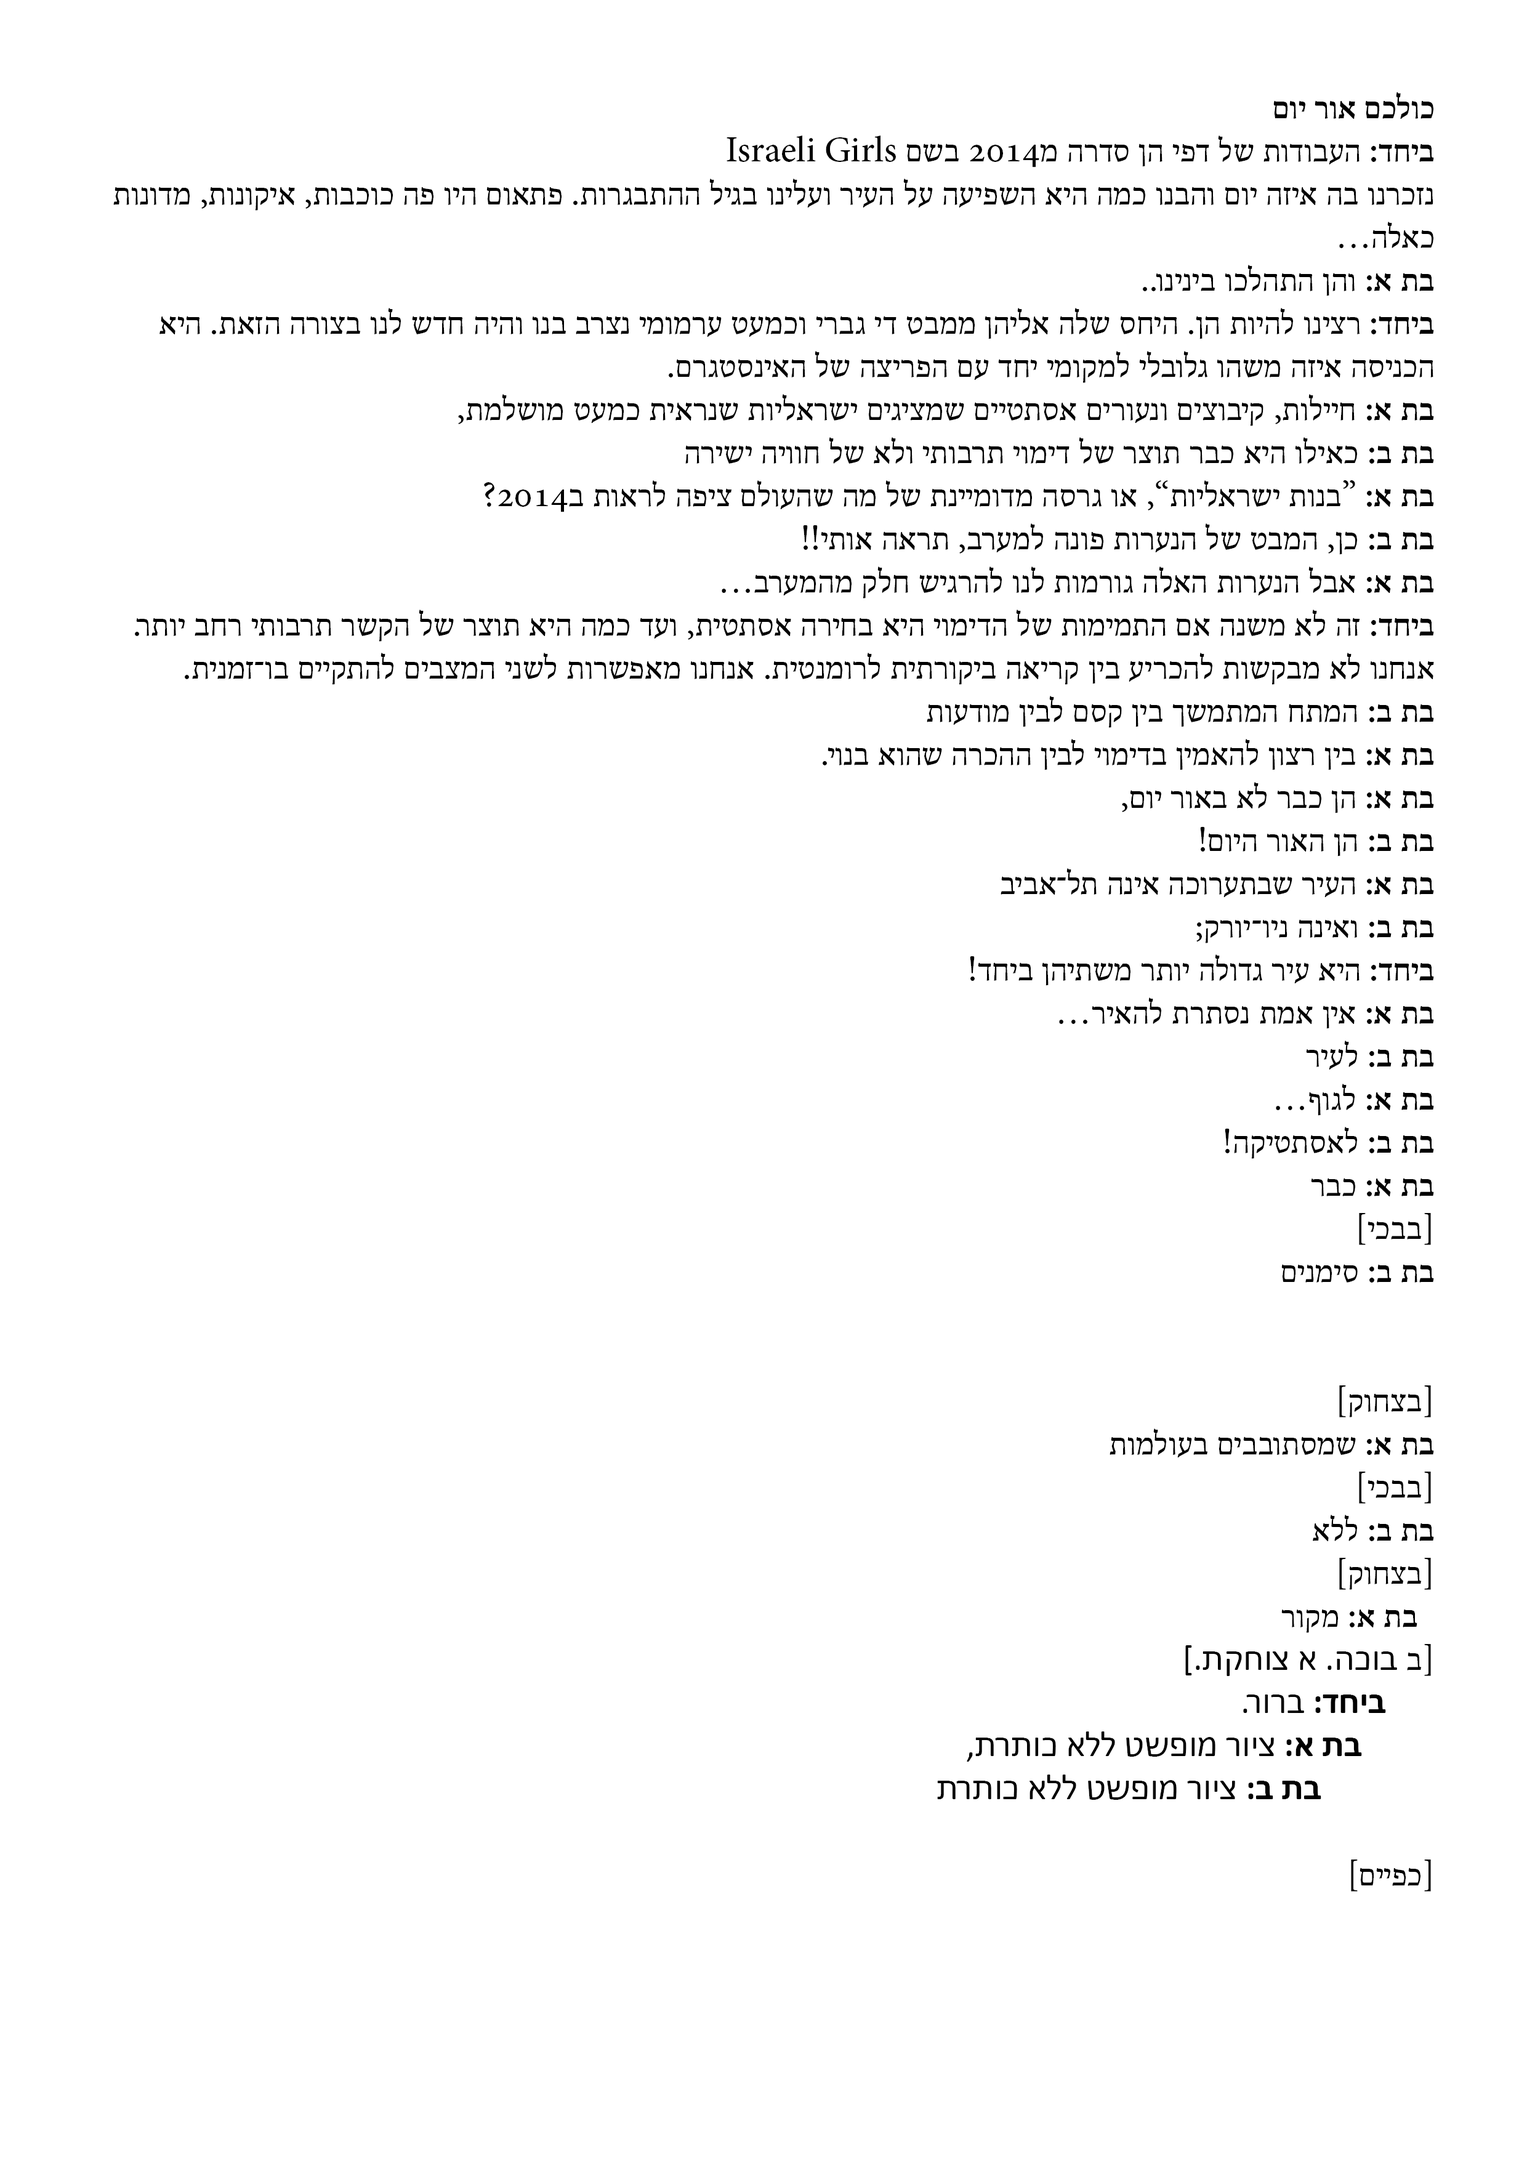
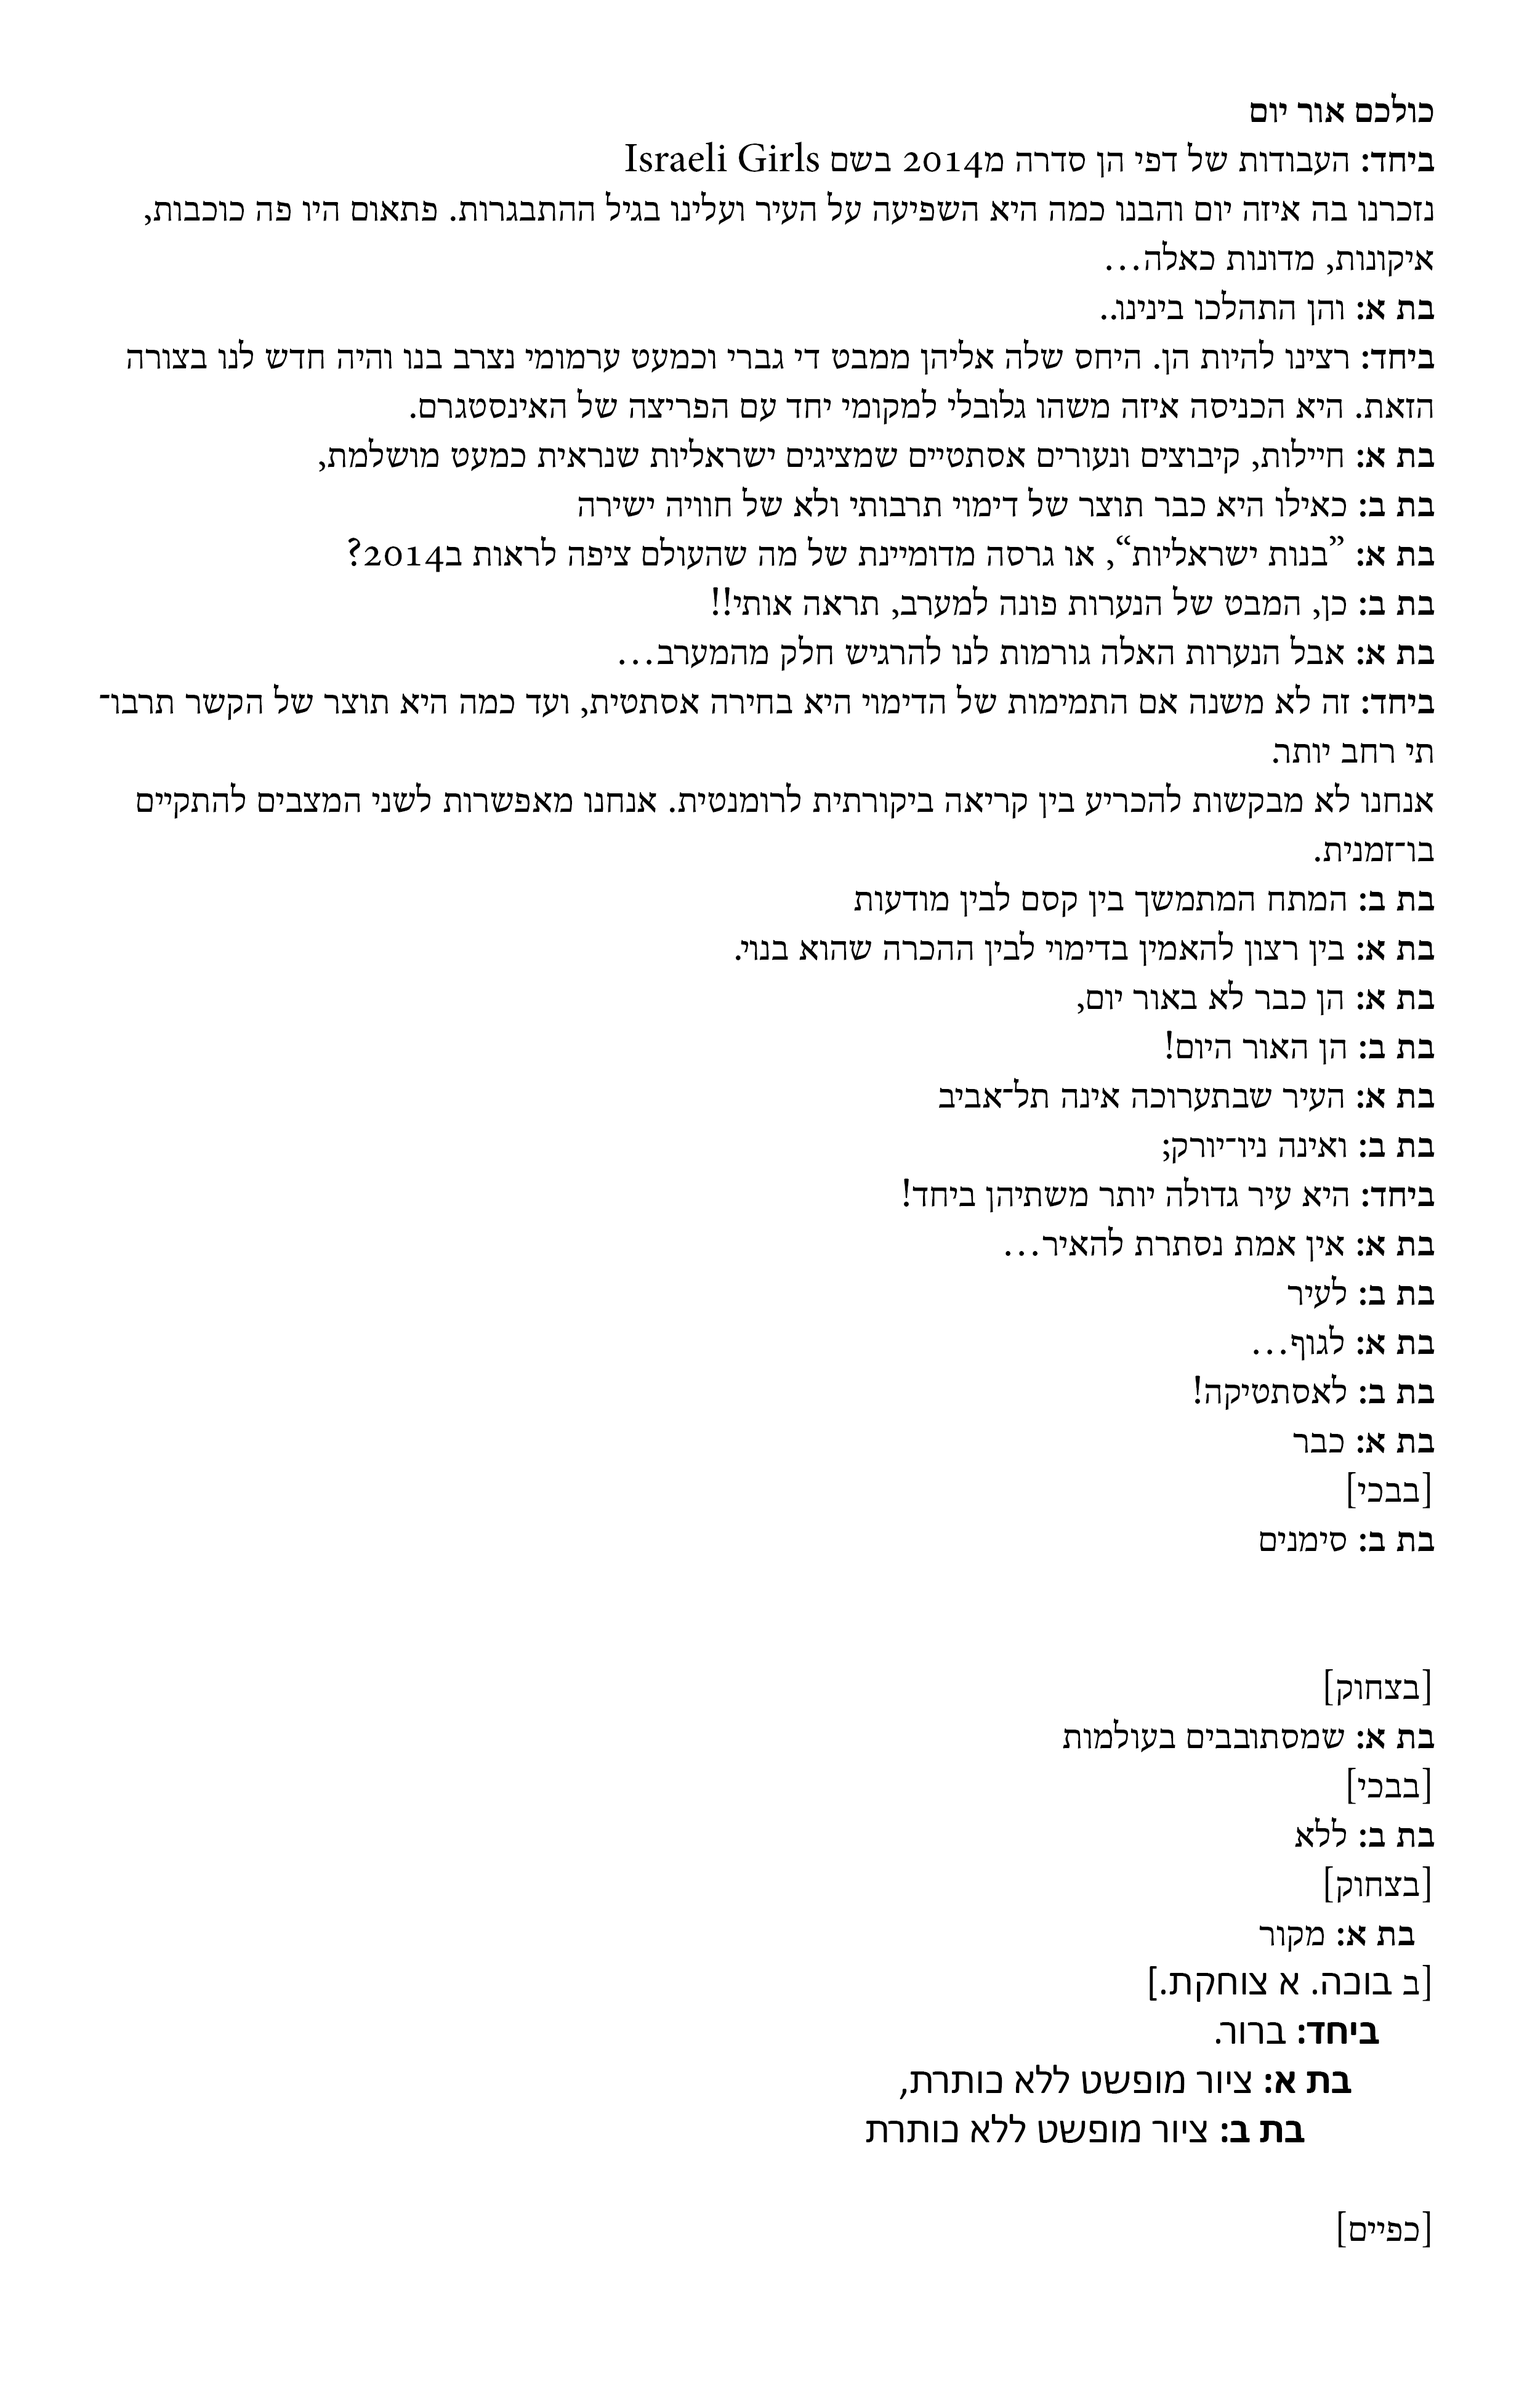
Replace You Are All Daylight intro image with the correct documentation text
The image at the top of the page was actually documentation text (a
screenplay/transcript excerpt), not the exhibition text — fixed the alt
attribute to say so instead of mislabeling it, and swapped in the correct
image Boris provided. Added a cache-busting ?v=2 on this one image since
its filename is unchanged.

Claude-Session: https://claude.ai/code/session_01DexqJGxvAAU36TLFFn875v

diff --git a/projects/project4.html b/projects/project4.html
@@ -52,7 +52,7 @@
 
      <div class="project-description">
   <figure class="intro-image">
-    <img src="images/you_are_all_daylight/text_daylight.png" alt="Exhibition text for You Are All Daylight">
+    <img src="images/you_are_all_daylight/text_daylight.png?v=2" alt="Documentation text for You Are All Daylight">
   </figure>
 </div>
 
